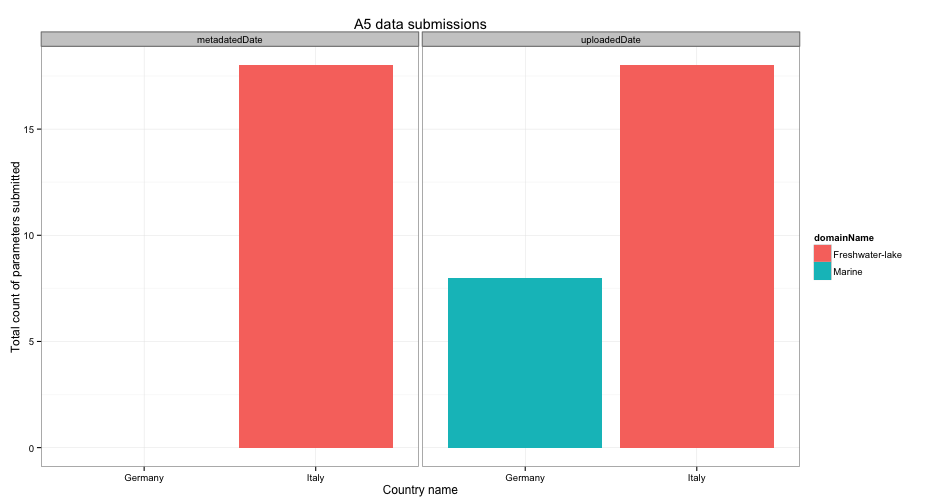
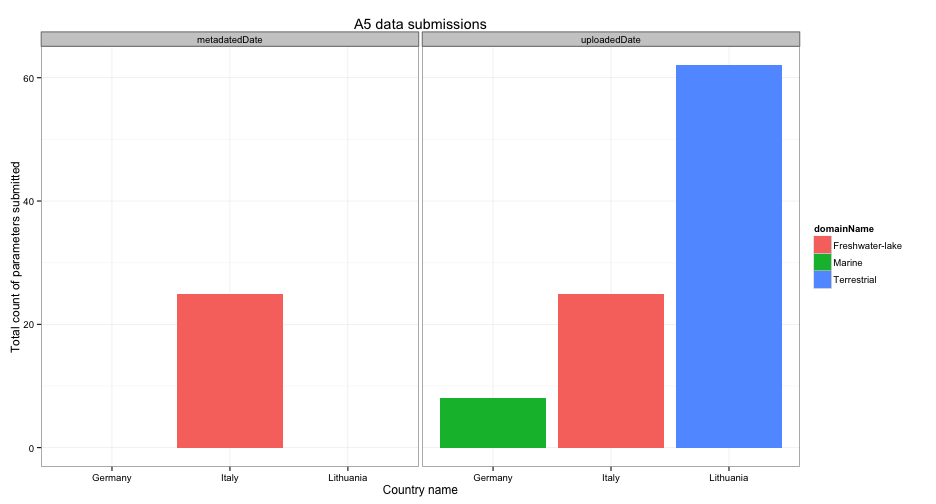
publishing deck

diff --git a/index.html b/index.html
@@ -48,21 +48,21 @@
   </hgroup>
   <article>
     <ul>
-<li>Last updated <code>2013-02-27</code></li>
+<li>Last updated <code>2013-02-28</code></li>
 <li>Deadline for data submission: <code>2013-03-08</code></li>
-<li>Days to deadline: <code>9</code></li>
+<li>Days to deadline: <code>8</code></li>
 <li>Total number of sites sampled in 2012: <code>60</code>; stations: <code>63</code></li>
 </ul>
 
 <!-- html table generated in R 2.15.2 by xtable 1.7-0 package -->
 
-<!-- Wed Feb 27 15:30:42 2013 -->
+<!-- Thu Feb 28 07:20:19 2013 -->
 
 <TABLE border=1>
 <TR> <TH>  </TH> <TH> No. uploaded </TH> <TH> No. metadated </TH> <TH> Total no. </TH> <TH> Upload ratio </TH> <TH> Metadata ratio </TH>  </TR>
-  <TR> <TD align="right"> Year2012 </TD> <TD align="right">  26 </TD> <TD align="right">  18 </TD> <TD align="right"> 1976 </TD> <TD align="right"> 0.01 </TD> <TD align="right"> 0.01 </TD> </TR>
+  <TR> <TD align="right"> Year2012 </TD> <TD align="right">  95 </TD> <TD align="right">  25 </TD> <TD align="right"> 1976 </TD> <TD align="right"> 0.05 </TD> <TD align="right"> 0.01 </TD> </TR>
   <TR> <TD align="right"> Year2011 </TD> <TD align="right">   0 </TD> <TD align="right">   0 </TD> <TD align="right"> 242 </TD> <TD align="right"> 0.00 </TD> <TD align="right"> 0.00 </TD> </TR>
-  <TR> <TD align="right"> Sum </TD> <TD align="right">  26 </TD> <TD align="right">  18 </TD> <TD align="right"> 2218 </TD> <TD align="right"> 0.01 </TD> <TD align="right"> 0.01 </TD> </TR>
+  <TR> <TD align="right"> Sum </TD> <TD align="right">  95 </TD> <TD align="right">  25 </TD> <TD align="right"> 2218 </TD> <TD align="right"> 0.04 </TD> <TD align="right"> 0.01 </TD> </TR>
    </TABLE>
 
   </article>

diff --git a/index.md b/index.md
@@ -26,19 +26,19 @@ github:
 
 ## State of uploading process
 
-* Last updated ``2013-02-27``
+* Last updated ``2013-02-28``
 * Deadline for data submission: `2013-03-08`
-* Days to deadline: ``9``
+* Days to deadline: ``8``
 * Total number of sites sampled in 2012: ``60``; stations: ``63``
 
 
 <!-- html table generated in R 2.15.2 by xtable 1.7-0 package -->
-<!-- Wed Feb 27 15:30:42 2013 -->
+<!-- Thu Feb 28 07:20:19 2013 -->
 <TABLE border=1>
 <TR> <TH>  </TH> <TH> No. uploaded </TH> <TH> No. metadated </TH> <TH> Total no. </TH> <TH> Upload ratio </TH> <TH> Metadata ratio </TH>  </TR>
-  <TR> <TD align="right"> Year2012 </TD> <TD align="right">  26 </TD> <TD align="right">  18 </TD> <TD align="right"> 1976 </TD> <TD align="right"> 0.01 </TD> <TD align="right"> 0.01 </TD> </TR>
+  <TR> <TD align="right"> Year2012 </TD> <TD align="right">  95 </TD> <TD align="right">  25 </TD> <TD align="right"> 1976 </TD> <TD align="right"> 0.05 </TD> <TD align="right"> 0.01 </TD> </TR>
   <TR> <TD align="right"> Year2011 </TD> <TD align="right">   0 </TD> <TD align="right">   0 </TD> <TD align="right"> 242 </TD> <TD align="right"> 0.00 </TD> <TD align="right"> 0.00 </TD> </TR>
-  <TR> <TD align="right"> Sum </TD> <TD align="right">  26 </TD> <TD align="right">  18 </TD> <TD align="right"> 2218 </TD> <TD align="right"> 0.01 </TD> <TD align="right"> 0.01 </TD> </TR>
+  <TR> <TD align="right"> Sum </TD> <TD align="right">  95 </TD> <TD align="right">  25 </TD> <TD align="right"> 2218 </TD> <TD align="right"> 0.04 </TD> <TD align="right"> 0.01 </TD> </TR>
    </TABLE>
 
 
